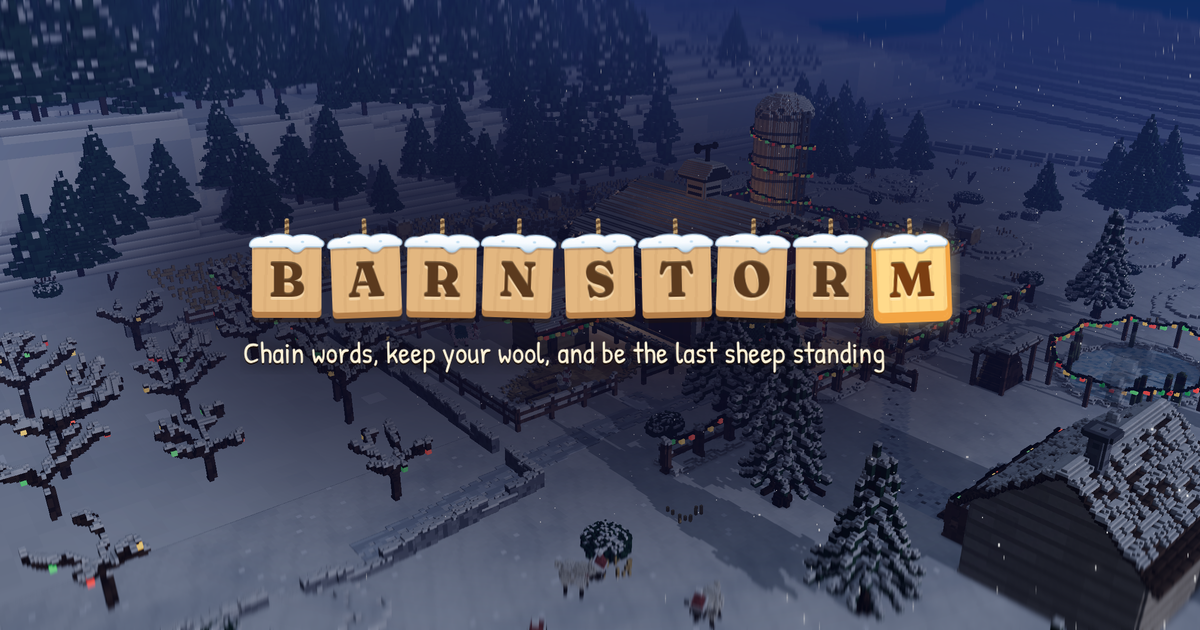
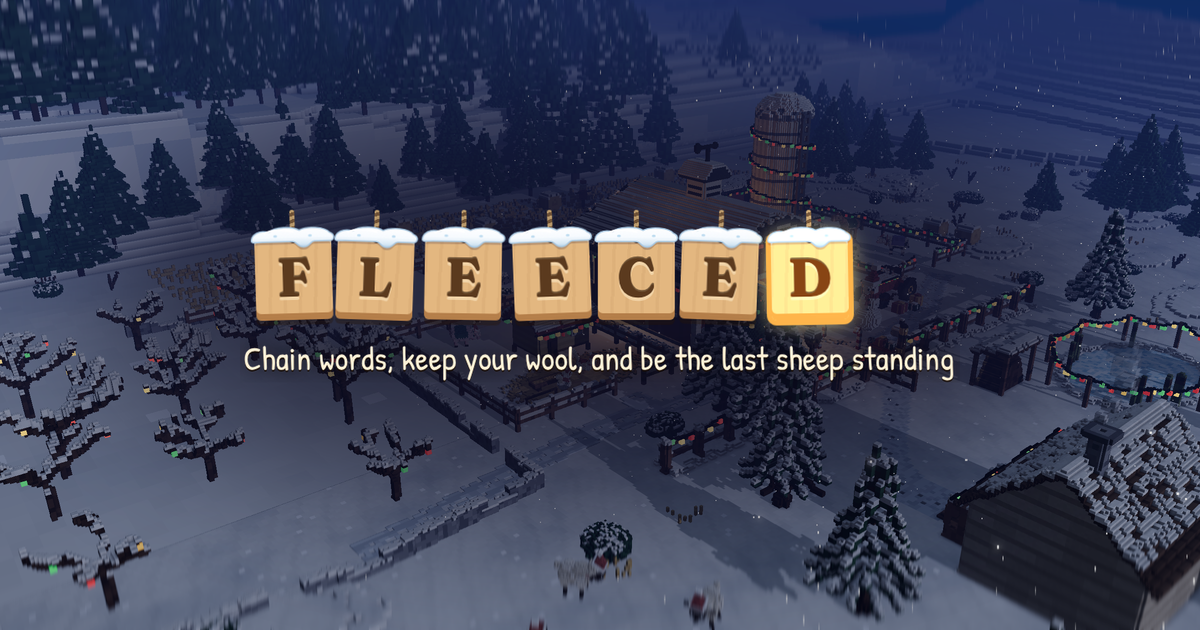
Rename the painted game to Fleeced
Scraps the Barnstorm name. The game is Fleeced, matching fleeced.io. The
name lives in PAINTED_GAME_TITLE (src/config.ts) and everything reads it: the
page title and link previews, the title board (seven letters, so the tiles
shrink on a phone), the share text and card file name, the parent's consent
notice, and the link-preview picture.

Claude-Session: https://claude.ai/code/session_01RDZvbmC2kE7fzunpsCA2Dq

diff --git a/index.html b/index.html
@@ -4,7 +4,7 @@
     <meta charset="UTF-8" />
     <meta name="viewport" content="width=device-width, initial-scale=1, viewport-fit=cover" />
     <meta name="theme-color" content="#0b1030" />
-    <title>Barnstorm</title>
+    <title>Fleeced</title>
     <meta name="description" content="A free word-chain game: chain words against the clock and be the last sheep standing." />
     <!-- The tab icon is the sheep's head from the avatars (public/favicon-*.png, cut from Brian's sheet). Page-relative,
          like the preloads below: the dev server doubles a %BASE_URL% prefix. -->
@@ -17,13 +17,13 @@
     <link rel="preload" as="image" type="image/webp" href="loading/doors-lintel.webp" />
     <link rel="preload" as="image" type="image/webp" href="loading/doors-sill.webp" />
     <meta property="og:type" content="website" />
-    <meta property="og:title" content="Barnstorm" />
+    <meta property="og:title" content="Fleeced" />
     <meta property="og:description" content="Chain words. Keep your wool. Be the last sheep standing." />
     <meta property="og:image" content="https://kaichuang581.github.io/steal-a-poop/og.png" />
     <meta property="og:image:width" content="1200" />
     <meta property="og:image:height" content="630" />
     <meta name="twitter:card" content="summary_large_image" />
-    <meta name="twitter:title" content="Barnstorm" />
+    <meta name="twitter:title" content="Fleeced" />
     <meta name="twitter:description" content="Chain words. Keep your wool. Be the last sheep standing." />
     <meta name="twitter:image" content="https://kaichuang581.github.io/steal-a-poop/og.png" />
   </head>

diff --git a/src/skin/share/card.ts b/src/skin/share/card.ts
@@ -136,7 +136,7 @@ export async function shareCard(card: CardInput, text: string): Promise<'shared'
   const canvas = drawCard(card);
   const blob = canvas ? await blobOf(canvas) : null;
   if (blob && typeof File !== 'undefined') {
-    const file = new File([blob], 'barnstorm.png', { type: 'image/png' });
+    const file = new File([blob], 'fleeced.png', { type: 'image/png' });
     try {
       if (navigator.canShare?.({ files: [file] })) { await navigator.share({ files: [file], text }); return 'shared'; }
     } catch { /* cancelled or refused: fall through */ }
@@ -144,7 +144,7 @@ export async function shareCard(card: CardInput, text: string): Promise<'shared'
   try { await navigator.clipboard.writeText(text); } catch { window.prompt('Copy your result:', text); return 'copied'; }
   if (blob) {
     const a = document.createElement('a');
-    a.href = URL.createObjectURL(blob); a.download = 'barnstorm.png';
+    a.href = URL.createObjectURL(blob); a.download = 'fleeced.png';
     a.click(); setTimeout(() => URL.revokeObjectURL(a.href), 2000);
     return 'saved';
   }

diff --git a/src/lib/ageRules.ts b/src/lib/ageRules.ts
@@ -89,7 +89,7 @@ export const PARENT_DECLINE = 'I do not agree';
  * the agreement, as it does for the old email, so the record says what was shown.
  */
 export const PARENT_NOTICE: readonly string[] = [
-  'Barnstorm is a free word game. Your child can play alone, against computer players, and with other people online.',
+  'Fleeced is a free word game. Your child can play alone, against computer players, and with other people online.',
   'Online, your child can join rooms with other players, chat with them (every message is checked by a filter before anyone sees it) and appear on the public leaderboards under their nickname.',
   'With an account we keep the email address, the nickname, the country and age given here, and game results. As a guest, everything is kept in this browser only.',
   'You agree once. You can ask us to delete the account at any time from Settings.',

diff --git a/src/skin/styles/skin.css b/src/skin/styles/skin.css
@@ -132,7 +132,7 @@
 .sk-nail-r { right: 11px; top: 50%; transform: translateY(-30%); }
 .sk-title-tiles { display: flex; gap: calc(var(--title-tile) * 0.12); padding: calc(var(--title-tile) * 0.32) calc(var(--title-tile) * 0.25) 0; }
 .sk-title-compact .sk-title-tiles { padding-left: 0; padding-right: 0; }
-/* A one-word title of six or more letters (Barnstorm): the tiles shrink until the row fits the screen. */
+/* A one-word title of six or more letters (Fleeced): the tiles shrink until the row fits the screen. */
 .sk-title-compact.sk-title-long { --title-tile: min(52px, calc((100vw - 32px) / 10.6)); }
 .sk-title-tile {
   --tile-w: var(--title-tile); width: var(--title-tile); height: calc(var(--title-tile) * 1.08); font-size: calc(var(--title-tile) * 0.7);

diff --git a/src/config.ts b/src/config.ts
@@ -1,7 +1,7 @@
 /** Rename the game here. Everything user-facing reads from this file. */
 export const GAME_TITLE = 'Steal a Poop';
 /** The name the default (painted) look shows; the old look (?skin=classic) keeps GAME_TITLE. */
-export const PAINTED_GAME_TITLE = 'Barnstorm';
+export const PAINTED_GAME_TITLE = 'Fleeced';
 export const GAME_TAGLINE = 'Chain words. Keep your wool. Be the last sheep standing.';
 /** This version's name, shown beside its number. */
 export const UPDATE_NAME = 'Fleece Navidad';

diff --git a/CLAUDE.md b/CLAUDE.md
@@ -1679,7 +1679,7 @@ The redesign plan is docs/REDESIGN_PLAN.md. The discovery map is docs/skin/DISCO
       the old look keeps GAME_TITLE. public/og.png, the link preview picture, said "STEAL ... Build the pile. Don't get
       stolen from."; it is now the game's own farm (the home tour's wide shot) with its title board, captured from the
       built game. The legal documents in docs/legal still name the service "Steal a Poop": that is for whoever reviews them.
-  (k) The painted game is renamed Barnstorm (Kai, 2026-11-15: "change the name from finish the word to Barnstorm"). The name is
+  (k) The painted game was renamed Barnstorm, then Fleeced (Kai, 2026-11-15: "change the name from finish the word to Barnstorm"; then "scrap everything, change the name to Fleeced"). The name is
       `PAINTED_GAME_TITLE` in src/config.ts: the page title and link previews (index.html), the title board (one word, so the
       tiles shrink on a phone: `.sk-title-long`), the share text and card, the credits, the framed-page message, the parent's
       consent notice (src/lib/ageRules.ts, so records made from now on hash the new text), and the link preview picture
